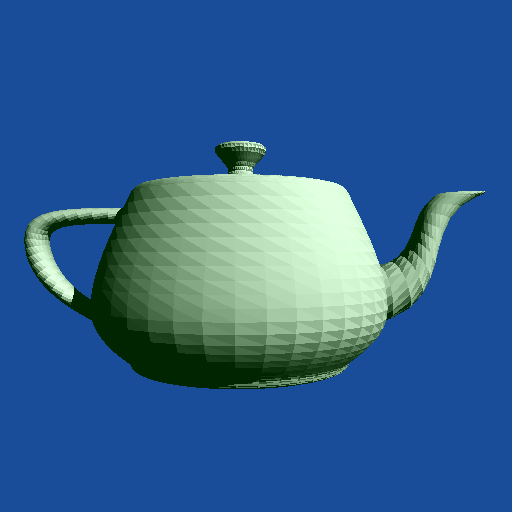
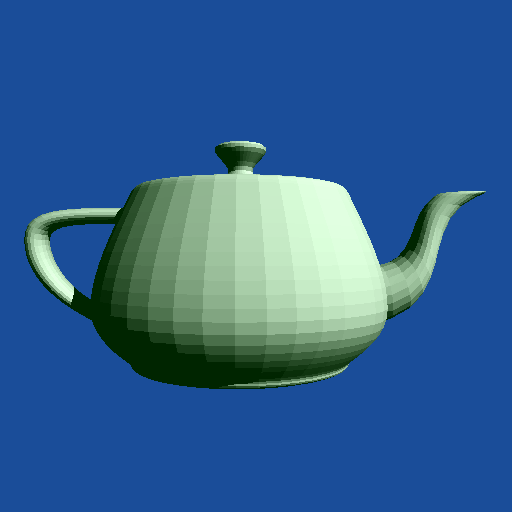
Did worksheet 4

diff --git a/raytrace/BspTree.cpp b/raytrace/BspTree.cpp
@@ -37,7 +37,7 @@ void BspTree::init(const vector<Object3D*>& geometry, const std::vector<const Pl
 
 bool BspTree::closest_hit(Ray& r, HitInfo& hit) const
 {
-    // Call closest_plane(...) and intersect_node(...) instead of
+	// Call closest_plane(...) and intersect_node(...) instead of
     // Accelerator::closest_hit(...) to use the BSP tree.
     // Using intersect_min_max(...) before intersect_node(...) gives
     // a good speed-up in many scenes.
@@ -45,16 +45,16 @@ bool BspTree::closest_hit(Ray& r, HitInfo& hit) const
     HitInfo hitTmp;
     closest_plane(r, hitTmp);
     
-    bool hit_node =  intersect_node(r, hit, *root);
+    intersect_node(r, hit, *root);
 
     hit = !hitTmp.has_hit || (hit.has_hit && hit.dist < hitTmp.dist) ? hit : hitTmp;
     
-    return hit_node;
+    return hit.has_hit;
 }
 
 bool BspTree::any_hit(Ray& r, HitInfo& hit) const
 {
-    // Call any_plane(...) and intersect_node(...) instead of
+	// Call any_plane(...) and intersect_node(...) instead of
     // Accelerator::any_hit(...) to use the BSP tree.
     // Using intersect_min_max(...) before intersect_node(...) gives
     // a good speed-up in many scenes.

diff --git a/raytrace/TriMesh.cpp b/raytrace/TriMesh.cpp
@@ -61,8 +61,8 @@ bool TriMesh::intersect(const Ray& r, HitInfo& hit, unsigned int prim_idx) const
 	hit.has_hit = true;
 	hit.dist = t;
 
-	hit.geometric_normal = normals.vertex(face.x);
-    hit.shading_normal = has_normals() ? normalize((1 - beta - gamma) * normals.vertex(face.x) + beta * normals.vertex(face.y) + gamma * normals.vertex(face.z)) : normals.vertex(face.x);
+	hit.geometric_normal = normalize(n);
+	hit.shading_normal = has_normals() ? normalize((1 - beta - gamma) * normals.vertex(face.x) + beta * normals.vertex(face.y) + gamma * normals.vertex(face.z)) : normals.vertex(face.x);
 
 
 	hit.position = r.origin + t * r.direction;

diff --git a/raytrace/AreaLight.cpp b/raytrace/AreaLight.cpp
@@ -39,7 +39,10 @@ bool AreaLight::sample(const float3& pos, float3& dir, float3& L) const
   //        emitted by a triangle in the mesh.
   float3 intensity = make_float3(0);
   for (int i = 0; i < mesh->get_no_of_primitives(); i++) {
-	  intensity += get_emission(i) / mesh->face_areas[i];
+	  //intensity += get_emission(i) / mesh->face_areas[i];
+	  uint3 face = normals.face(i);
+	  float3 normal = normalize(normals.vertex(face.x) + normals.vertex(face.y) + normals.vertex(face.z));
+	  intensity += dot(-dir, normal) * get_emission(i) * mesh->face_areas[i];
   }
 
   dir = (mesh->compute_bbox().center() - make_float3(0,0.001f,0)) - pos;
